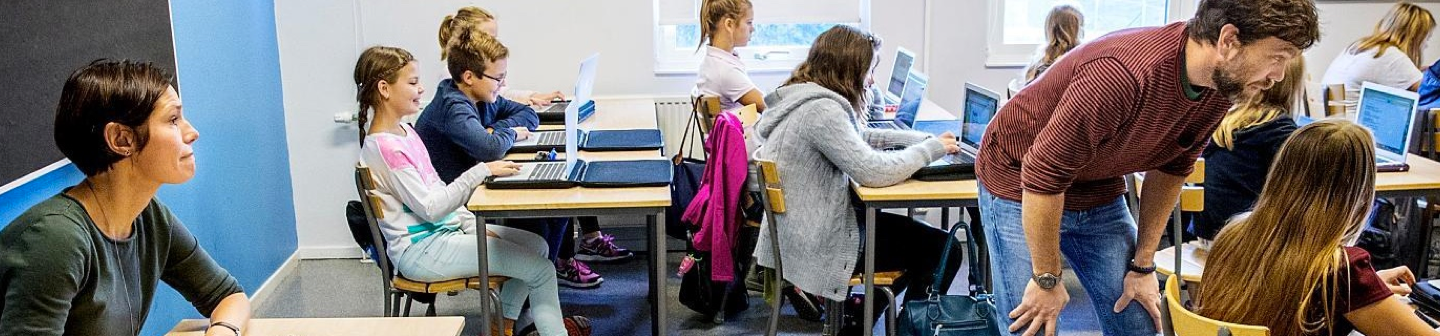
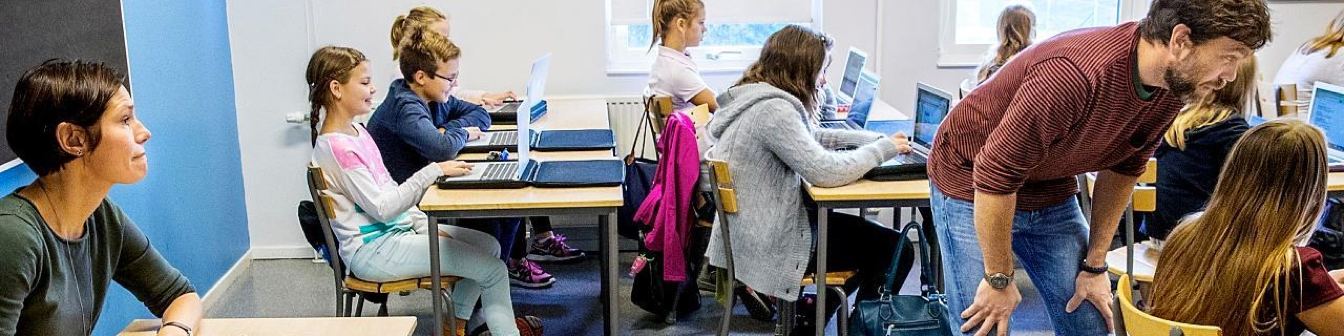
Docs for images and true 4:1 image ratio

diff --git a/src/docs/components/image-article.md b/src/docs/components/image-article.md
@@ -3,10 +3,75 @@ name: Bildpuffar
 category: Komponenter
 ---
 
-## Exempel med varianter med tre, två eller en bildpuff
+Det finns tre varianter som tillsammans skapar en visuell hierarki. En modul med endast en bild ges högre informationsvärde än en modul med tre bilder i. Det representeras genom att bild och text visas större. Hierarkin är ett av redaktörens verktyg för att guida och rikta besökarens uppmärksamhet. Vi försöker behålla den hierarkin i så hög utsträckning som möjligt genom alla brytpunkter.
 
 ```default.html
 <div class="box box--no-padding">
+  <div class="section section--boxed">
+    <header class="section__header">
+      <h2 class="h3 section__header-title"><span class="section__header-title-text">En bildpuff<span></h2>
+    </header>
+    <div class="section__body">
+    <div class="row">
+      <div class="col-12 col-md-6">
+        <div class="content-navigation-list">
+          <div class="content-navigation-list__item content-navigation-list__item--no-border">
+            <img src="_styleguide/assets/img/image16-9.png" class="content-navigation-list__item-image-large" />
+          </div>
+        </div>
+      </div>
+      <div class="col-12 col-md-6">
+      <div class="content-navigation-list">
+        <a href="#1" class="content-navigation-list__item-link text-large">
+        Quisque augue dui suscipit consequat <i class="icon-arrow icon-arrow--lg"></i>
+        </a>
+        <p class="content-navigation-list__item-text text-standard">Sed ut perspiciatis unde omnis iste natus error sit voluptatem accusantium doloremque laudantium, totam rem aperiam, eaque ipsa quae ab illo inventore.</p>
+      </div>
+      </div>
+    </div>
+    </div>
+  </div>
+  <div class="section section--boxed">
+    <header class="section__header">
+      <h2 class="h3 section__header-title"><span class="section__header-title-text">Två bildpuffar<span></h2>
+    </header>
+    <div class="section__body">
+      <div class="row">
+        <div class="col-12 col-md-6">
+          <ul class="content-navigation-list">
+            <li class="content-navigation-list__item content-navigation-list__item--no-border">
+            <div class="row">
+              <div class="col-4 push-8 col-md-12 push-md-0">
+                <img src="_styleguide/assets/img/image16-9.png" class="content-navigation-list__item-image-large" />
+              </div>
+              <div class="col-8 pull-4 col-md-12 pull-md-0">
+                <a href="#1" class="content-navigation-list__item-link text-large">
+                  Quisque augue dui suscipit consequat
+                  <i class="icon-arrow icon-arrow--lg"></i>
+                </a>
+              </div>
+            </li>
+          </ul>
+        </div>
+        <div class="col-12 col-md-6">
+          <ul class="content-navigation-list">
+            <li class="content-navigation-list__item content-navigation-list__item--no-border">
+            <div class="row">
+              <div class="col-4 push-8 col-md-12 push-md-0">
+                <img src="_styleguide/assets/img/image16-9.png" class="content-navigation-list__item-image-large" />
+              </div>
+              <div class="col-8 pull-4 col-md-12 pull-md-0">
+                <a href="#2" class="content-navigation-list__item-link text-large">
+                  Suscipit consequat quisque augue dui
+                  <i class="icon-arrow icon-arrow--lg"></i>
+                </a>
+              </div>
+            </li>
+          </ul>
+        </div>
+      </div>
+    </div>
+  </div>
   <div class="section section--boxed">
     <header class="section__header">
       <h2 class="h3 section__header-title"><span class="section__header-title-text">Tre bildpuffar<span></h2>
@@ -53,71 +118,6 @@ category: Komponenter
           </ul>
         </div>
       </div>
-    </div>
-  </div>
-  <div class="section section--boxed">
-    <header class="section__header">
-      <h2 class="h3 section__header-title"><span class="section__header-title-text">Två bildpuffar<span></h2>
-    </header>
-    <div class="section__body">
-      <div class="row">
-        <div class="col-12 col-md-6">
-          <ul class="content-navigation-list">
-            <li class="content-navigation-list__item content-navigation-list__item--no-border">
-            <div class="row">
-              <div class="col-4 push-8 col-md-12 push-md-0">
-                <img src="_styleguide/assets/img/image16-9.png" class="content-navigation-list__item-image-large" />
-              </div>
-              <div class="col-8 pull-4 col-md-12 pull-md-0">
-                <a href="#1" class="content-navigation-list__item-link text-large">
-                  Quisque augue dui suscipit consequat
-                  <i class="icon-arrow icon-arrow--lg"></i>
-                </a>
-              </div>
-            </li>
-          </ul>
-        </div>
-        <div class="col-12 col-md-6">
-          <ul class="content-navigation-list">
-            <li class="content-navigation-list__item content-navigation-list__item--no-border">
-            <div class="row">
-              <div class="col-4 push-8 col-md-12 push-md-0">
-                <img src="_styleguide/assets/img/image16-9.png" class="content-navigation-list__item-image-large" />
-              </div>
-              <div class="col-8 pull-4 col-md-12 pull-md-0">
-                <a href="#2" class="content-navigation-list__item-link text-large">
-                  Suscipit consequat quisque augue dui
-                  <i class="icon-arrow icon-arrow--lg"></i>
-                </a>
-              </div>
-            </li>
-          </ul>
-        </div>
-      </div>
-    </div>
-  </div>
-  <div class="section section--boxed">
-    <header class="section__header">
-      <h2 class="h3 section__header-title"><span class="section__header-title-text">En bildpuff<span></h2>
-    </header>
-    <div class="section__body">
-    <div class="row">
-      <div class="col-12 col-md-6">
-        <div class="content-navigation-list">
-          <div class="content-navigation-list__item content-navigation-list__item--no-border">
-            <img src="_styleguide/assets/img/image16-9.png" class="content-navigation-list__item-image-large" />
-          </div>
-        </div>
-      </div>
-      <div class="col-12 col-md-6">
-      <div class="content-navigation-list">
-        <a href="#1" class="content-navigation-list__item-link text-large">
-        Quisque augue dui suscipit consequat <i class="icon-arrow icon-arrow--lg"></i>
-        </a>
-        <p class="content-navigation-list__item-text text-standard">Sed ut perspiciatis unde omnis iste natus error sit voluptatem accusantium doloremque laudantium, totam rem aperiam, eaque ipsa quae ab illo inventore.</p>
-      </div>
-      </div>
-    </div>
     </div>
   </div>
 </div>
